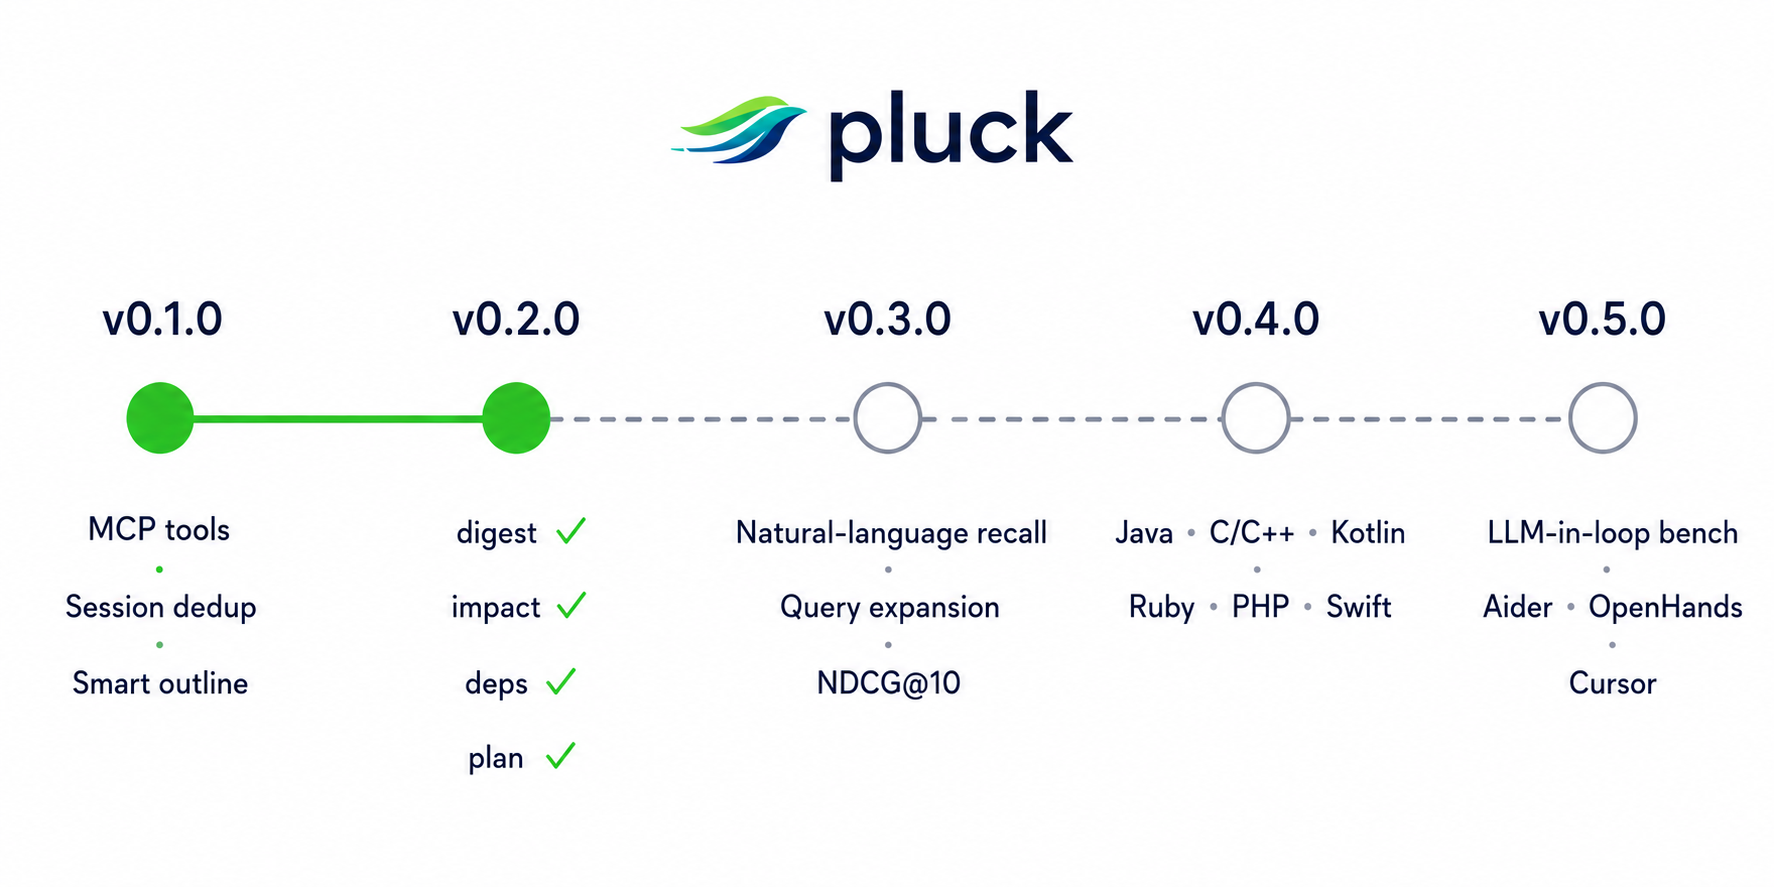
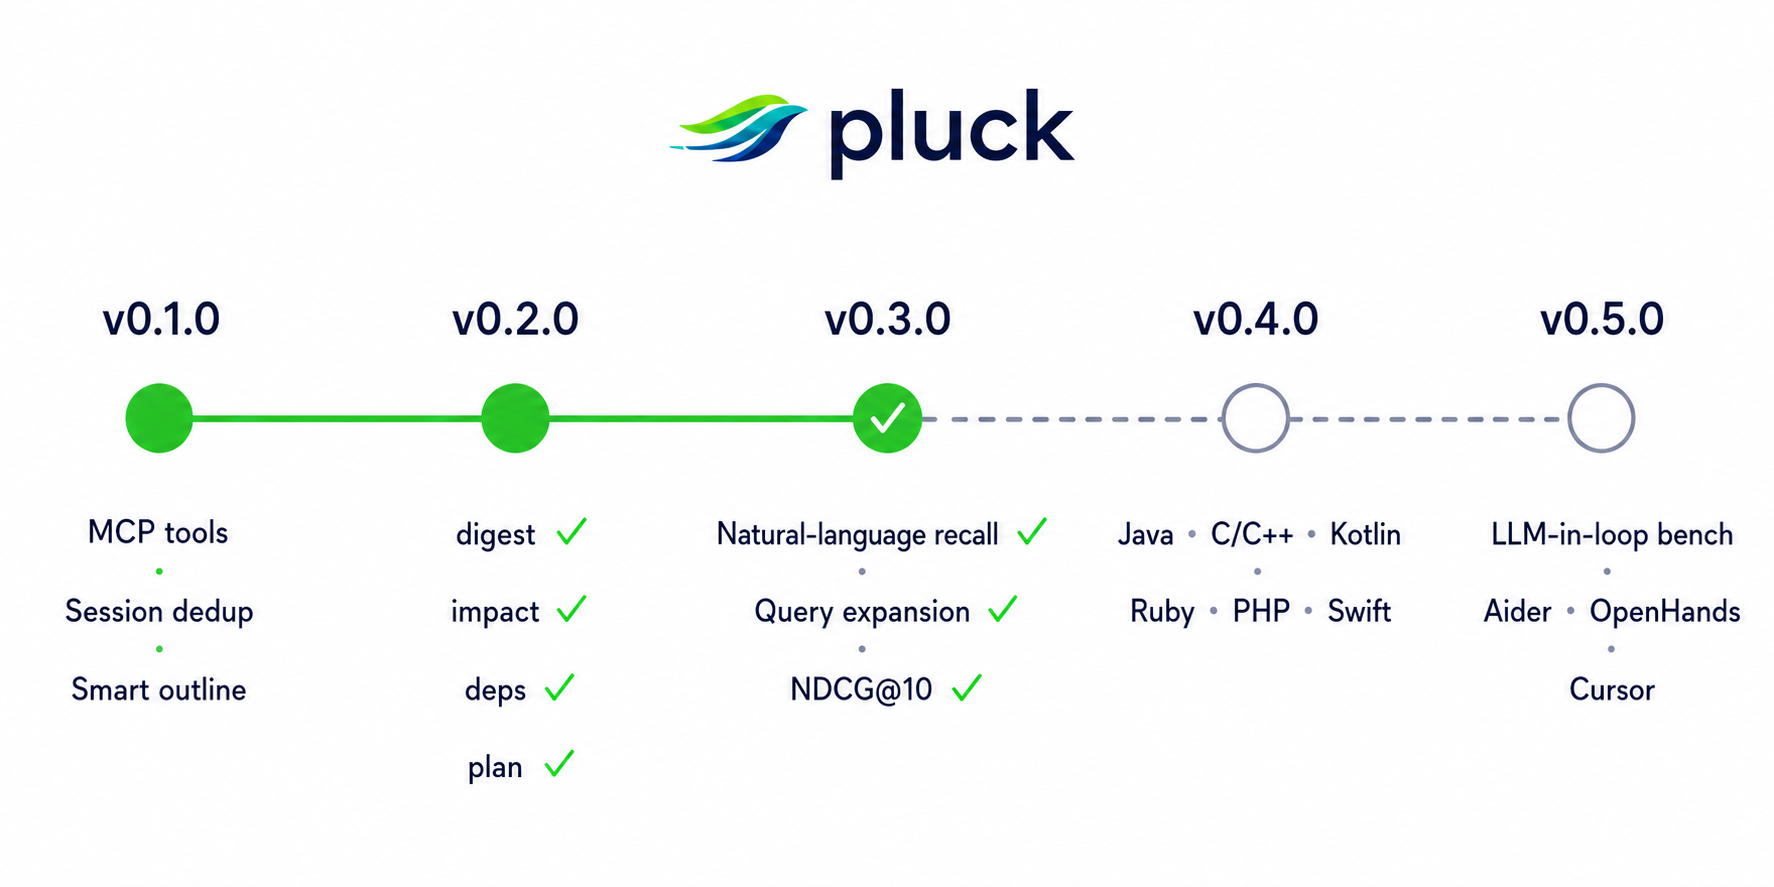
Prepare v0.3.0 release (#14)
* docs: add Korean README link

* Prepare v0.3.0 release

diff --git a/README.md b/README.md
@@ -1,3 +1,7 @@
+<p align="right">
+  <a href="README.ko.md">한국어로 보기</a>
+</p>
+
 <h2 align="center">
   <!-- GPT IMAGE PROMPT: A sleek, modern logo for 'pluck', an AI code search tool. The logo should feature a stylized bird or feather motif, or a fast-moving abstract shape, with a clean tech-focused aesthetic. Use vibrant green and dark blue tones. Transparent background. -->
   <img width="30%" alt="pluck logo" src="assets/images/pluck_logo.png"><br/>
@@ -195,11 +199,14 @@ Broader LLM-in-the-loop measurements across `fix` / `refactor` / `explore` / `se
   <img src="assets/images/roadmap.png" alt="Roadmap">
 </p>
 
-- **v0.2.0**: First crates.io publish, MCP tools, session dedup, smart outline,
-  and expanded surface — `digest`, `impact`, `deps`, `plan`.
-- **v0.3.0**: Natural-language recall — 100-query suite across tokio / django / next.js, query expansion, two-stage cascade, continuous hybrid weighting, NDCG@10 measurement.
-- **v0.4.0**: Language coverage — Java, C / C++, Kotlin, Ruby, PHP, Swift.
-- **v0.5.0**: Adoption-rate counter, tool-description A/B harness, LLM-in-loop bench, Aider / OpenHands / Cursor hooks.
+- **v0.2.0 — shipped**: First crates.io publish, MCP tools, session dedup,
+  smart outline, and expanded surface — `digest`, `impact`, `deps`, `plan`.
+- **v0.3.0 — shipped**: Natural-language recall — 100-query suite across
+  tokio / django / next.js, query expansion, two-stage cascade, continuous
+  hybrid weighting, NDCG@10 measurement, and symbol/path component ranking.
+- **v0.4.0 — next**: Language coverage — Java, C / C++, Kotlin, Ruby, PHP, Swift.
+- **v0.5.0**: Adoption-rate counter, tool-description A/B harness,
+  LLM-in-loop bench, Aider / OpenHands / Cursor hooks.
 
 ## License
 
